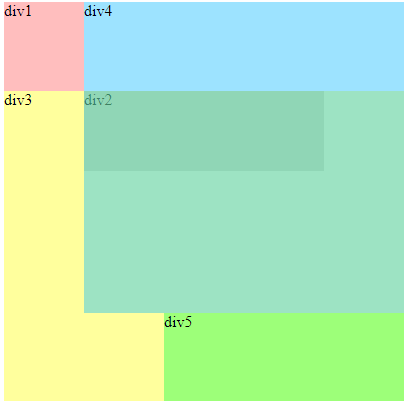
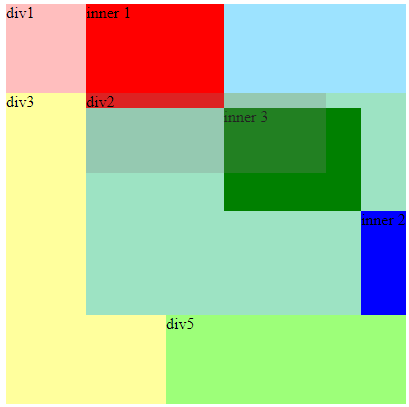
inner div

Changed region(s): [[0.0, 0.0, 1.0, 1.0]]

diff --git a/griddemo.html b/griddemo.html
@@ -9,15 +9,20 @@
 </head>
 
 <body>
-    <c-grid cols='5' style="height: 400px;width: 400px">
+    <c-grid cols-def='5' style="height: 400px;width: 400px">
         <div cols='1 / 2' rows='1 / 2' style="background-color: rgba(255, 0, 0, 0.253);"> div1</div>
-        <div cols='2 / 5' rows='2 / 4' style="background-color: rgba(128, 128, 128, 0.267);height:5em">div2</div>
+        <div cols='2 / 5' rows='2 / 4' style="background-color: rgba(128, 128, 128, 0.267);height:5em;z-index: 1;">div2</div>
         <div cols='1 / 6' rows='2 / 5' style="background-color: rgba(255, 255, 0, 0.384);">div3</div>
-        <div cols='2 / 6' rows='1 / 4' style="background-color: rgba(0, 183, 255, 0.384);">div4</div>
+        <div cols='2 / 6' rows='1 / 4' style="background-color: rgba(0, 183, 255, 0.384);">
+            <c-grid cols-def='2' style="height: 100%;width: 100%">
+                <div cols='1' rows='1' style="background-color: red">inner 1</div>
+                <div cols='2' rows='2' style="background-color: green">inner 3</div>
+                <div cols='3' rows='3' style="background-color: blue">inner 2</div>
+            </c-grid>
+        </div>
         <div cols='3 / 6' rows='4 / 4' style="background-color: rgba(0, 255, 64, 0.384);">div5</div>
     </c-grid>
-    <script src="grid.js">
-    </script>
+    <script src="grid.js"></script>
 </body>
 
 </html>

diff --git a/grid.js b/grid.js
@@ -5,7 +5,7 @@
             }
 
             init() {
-                let cols = parseInt(this.getAttribute('cols'));
+                let cols = parseInt(this.getAttribute('cols-def'));
                 let minheightattr = this.getAttribute('row-min-height');
                 let minh = minheightattr ? minheightattr : "10px";
                 let rootStyle = this.getAttribute('style');
